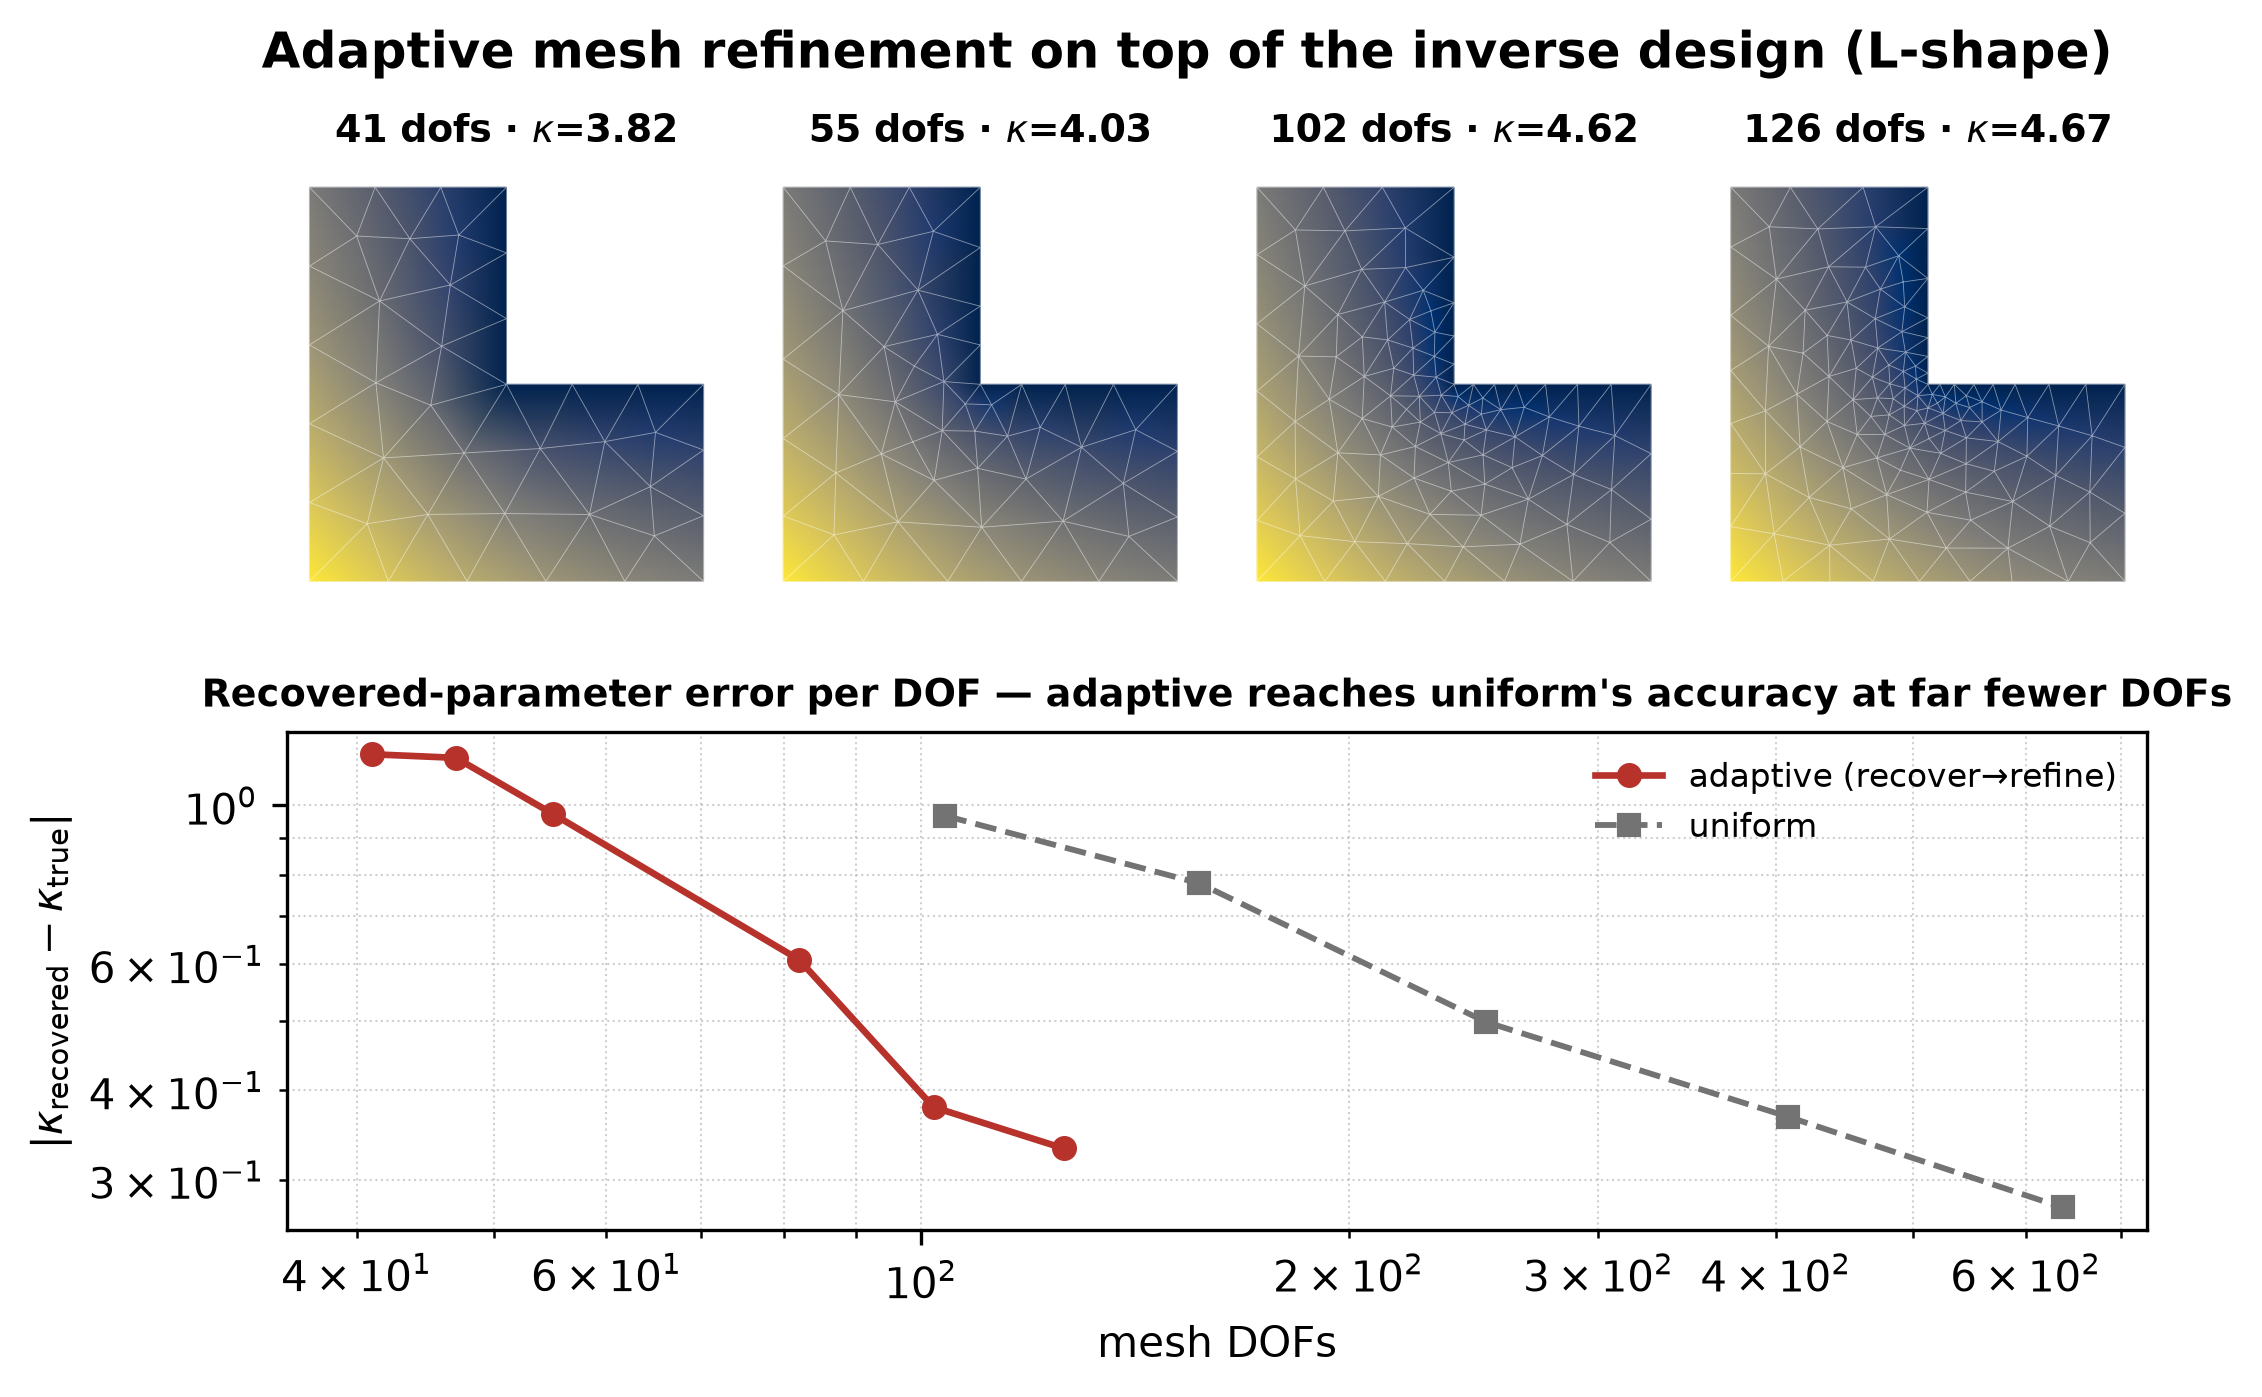
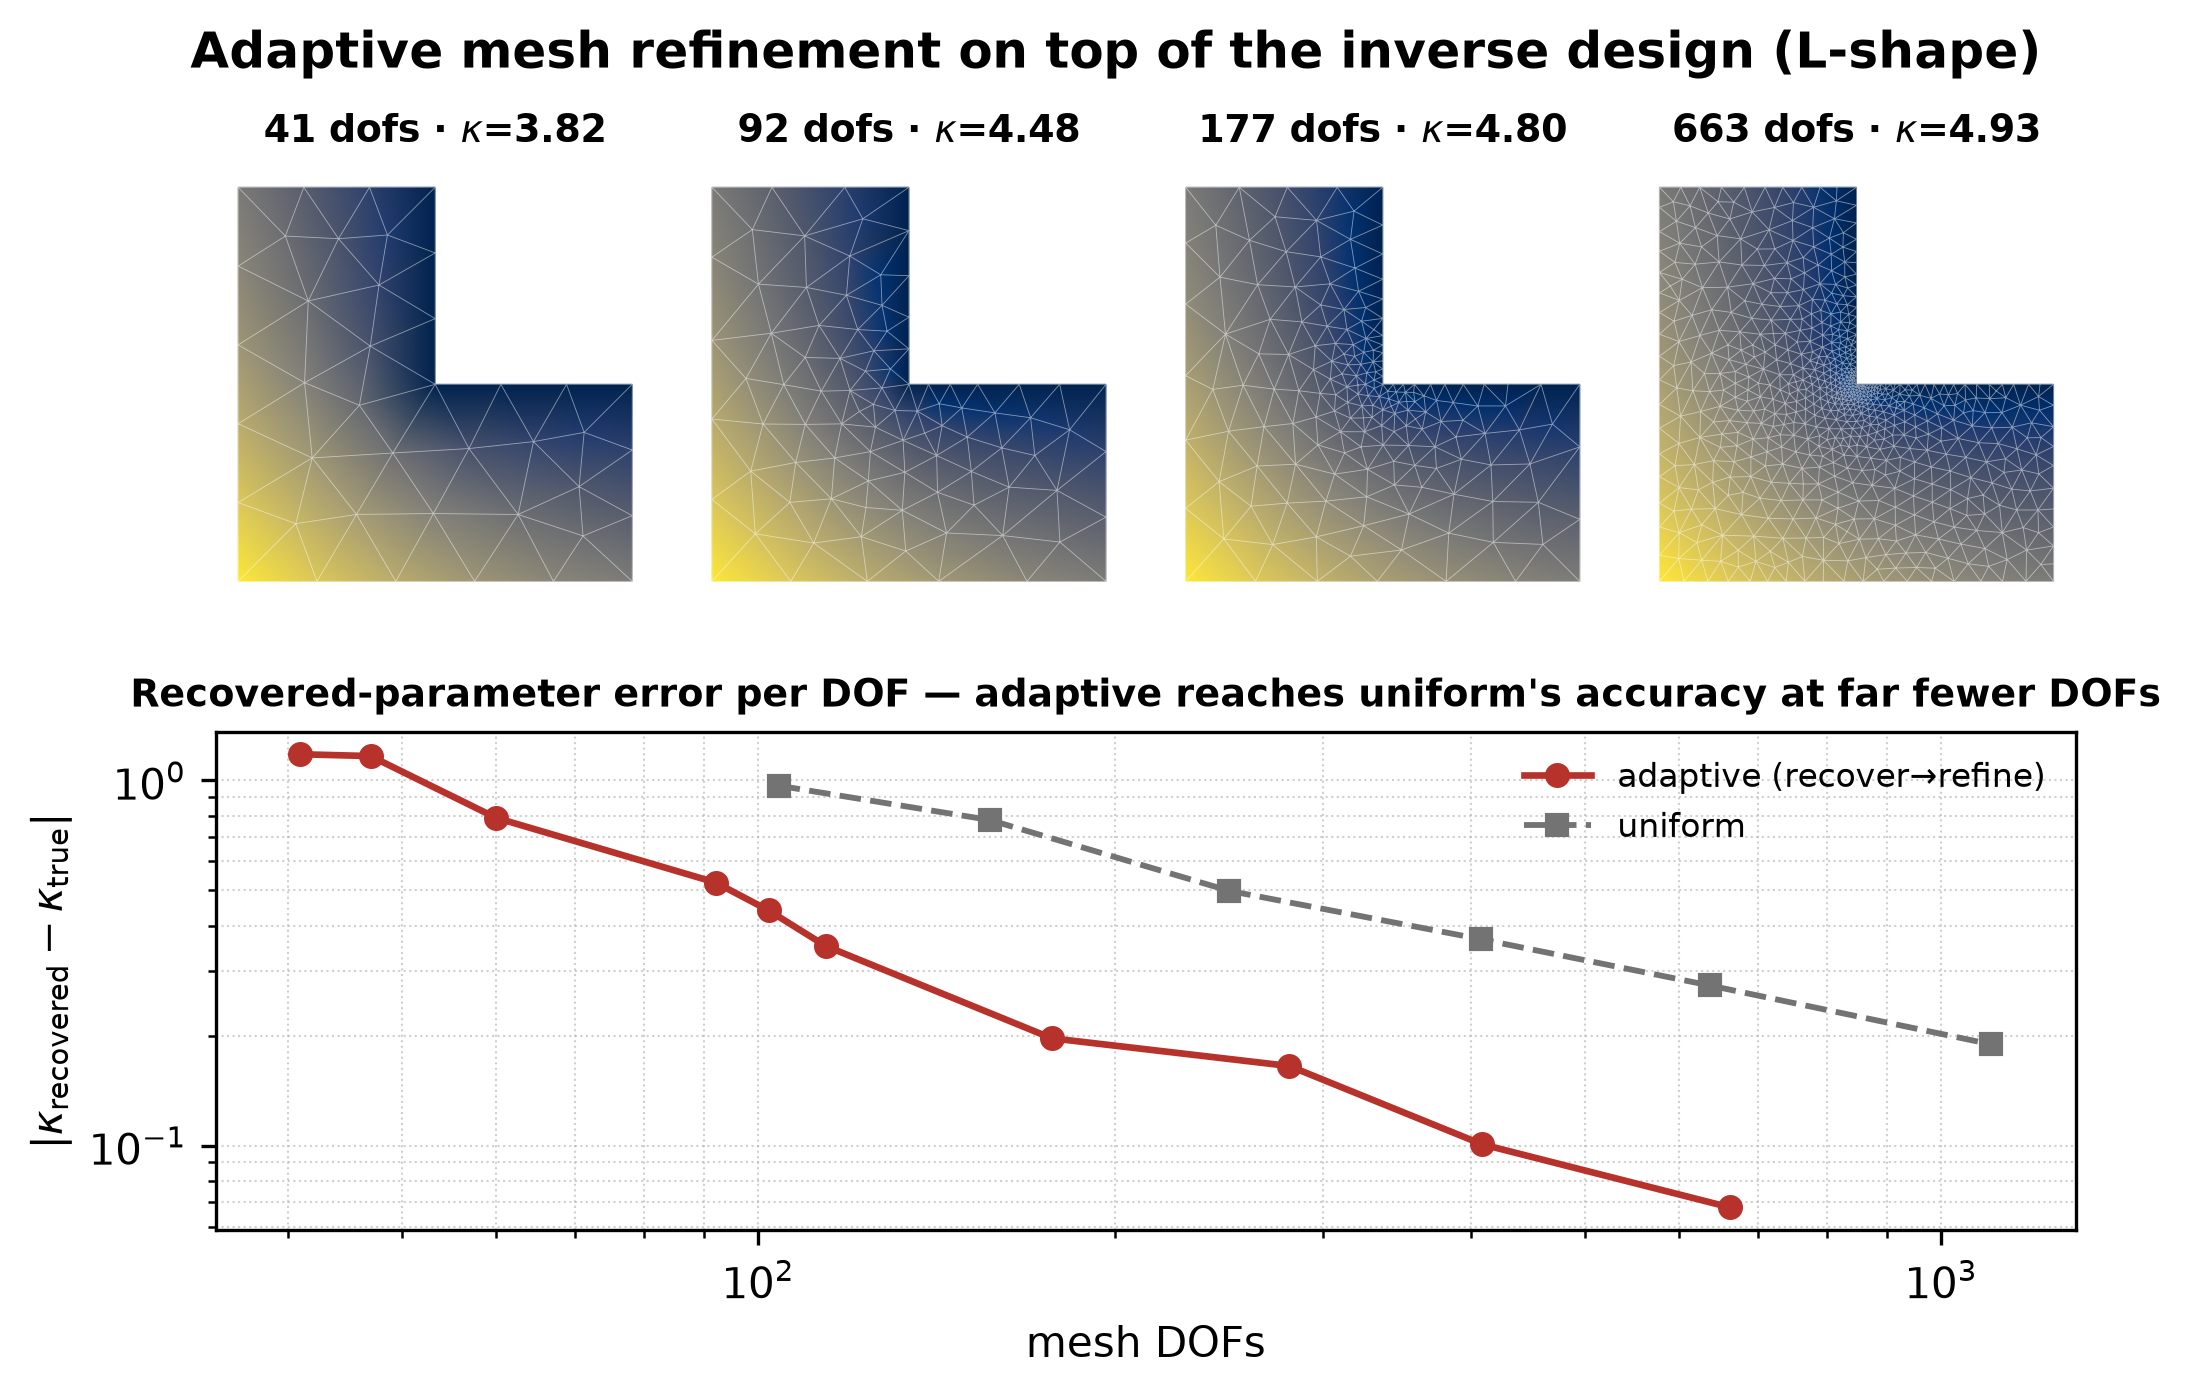
docs(fem): extend adaptive-inverse tutorial to march kappa to ~5.0

diff --git a/docs/tutorial_examples/08_fem_and_varpinns/adaptive_inverse_lshape.py b/docs/tutorial_examples/08_fem_and_varpinns/adaptive_inverse_lshape.py
@@ -101,7 +101,7 @@ def fresh_kappa(seed):
 
 
 # --- the adaptive-inverse run --------------------------------------------------------
-def run_adaptive(mesh_size=0.2, n_rounds=6, n_opt=250):
+def run_adaptive(mesh_size=0.2, n_rounds=10, n_opt=220):
     """Alternate recover-kappa / estimate / refine; snapshot mesh + state per round."""
     d = jno.domain(jno.domain.l_shape(size=1.0, mesh_size=mesh_size))
     dummy = jno.domain.from_array({"_": np.zeros((1, 1))})
@@ -133,12 +133,13 @@ def run_adaptive(mesh_size=0.2, n_rounds=6, n_opt=250):
         return v
 
     # eps stops the loop once the recovered kappa stops moving between rounds (with a
-    # patience of 2, so a single flat step does not stop it early); max_iters is the budget
-    # cap. Whichever fires first ends the "refine until the design is good enough" loop.
+    # patience of 2, so a single flat step does not stop it early); max_iters / max_dofs are
+    # the budget caps. Whichever fires first ends the "refine until good enough" loop. With a
+    # low eps and a generous budget the recovered kappa marches all the way to the truth (5).
     hist = run_adaptive_inverse(
         d,
         build_inverse,
-        AdaptSpec(theta=0.6, max_iters=n_rounds, refine_factor=1.6, eps=0.01),
+        AdaptSpec(theta=0.7, max_iters=n_rounds, refine_factor=1.6, eps=0.005, max_dofs=1500),
         n_opt=n_opt,
         readout=readout,
     )
@@ -224,7 +225,7 @@ if __name__ == "__main__":
     print("adaptive rounds (dofs, kappa):", [(s["n_dofs"], round(s["kappa"], 4)) for s in snaps])
 
     # a uniform sweep spanning the adaptive DOF range for the comparison
-    uniform = run_uniform([0.12, 0.09, 0.07, 0.05, 0.04])
+    uniform = run_uniform([0.12, 0.09, 0.07, 0.05, 0.04, 0.03])
     print("uniform (dofs, kappa):", [(u["n_dofs"], round(u["kappa"], 4)) for u in uniform])
 
     k_adapt = snaps[-1]["kappa"]

diff --git a/docs/tutorials/08-fem-and-varpinns/adaptive-inverse-lshape.md b/docs/tutorials/08-fem-and-varpinns/adaptive-inverse-lshape.md
@@ -64,14 +64,16 @@ it in `readout` and reseed the next round with `kappa.initialize(...)` to warm-s
 
 ## The result
 
-![Top: four L-shaped meshes refining at the re-entrant corner, tinted by the recovered singular
-state, labelled 41→126 dofs with kappa climbing 3.82→4.67. Bottom: a log-log plot of recovered-kappa
-error versus mesh DOFs, with the adaptive curve reaching low error at far fewer DOFs than the uniform
-baseline.](/jNO/assets/adaptive_inverse_lshape.png)
+![Top: four L-shaped meshes refining hard at the re-entrant corner, tinted by the recovered singular
+state, labelled 41→663 dofs with kappa climbing 3.82→4.93. Bottom: a log-log plot of recovered-kappa
+error versus mesh DOFs, with the adaptive curve dropping well below the uniform baseline.](/jNO/assets/adaptive_inverse_lshape.png)
 
-Starting from a deliberately wrong guess $\kappa=2$ (truth $5$), the recovered value climbs
-$3.82\to4.67$ as the corner is resolved. The adaptive run reaches $|\kappa-\kappa_\text{true}|\approx0.33$
-with **126 DOFs** — the accuracy uniform refinement only reaches near **~400 DOFs** (≈3× more).
+Starting from a deliberately wrong guess $\kappa=2$ (truth $5$), the recovered value marches
+$3.82\to4.93$ as the corner is resolved, and with a low `eps` and a bigger budget it keeps going —
+past $\kappa\approx4.99$ at a few thousand DOFs. At matched cost the adaptive run reaches
+$|\kappa-\kappa_\text{true}|\approx0.07$ with **663 DOFs**, versus $\approx0.19$ for uniform at **1102
+DOFs** — roughly a factor of a few fewer DOFs for the same parameter accuracy. `eps` sets *when* it
+stops; `max_iters` / `max_dofs` set *how far* it can go.
 
 ## What to notice
 
